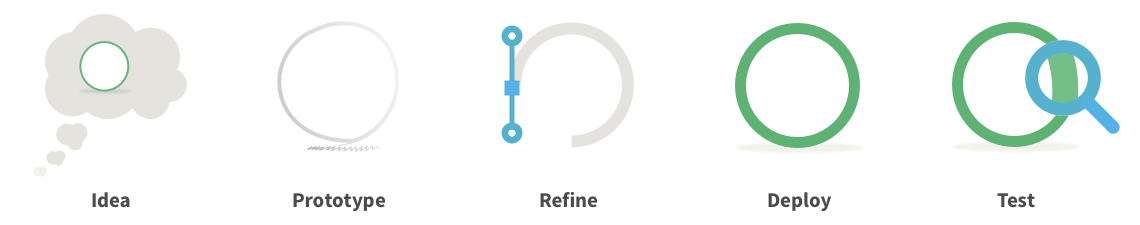
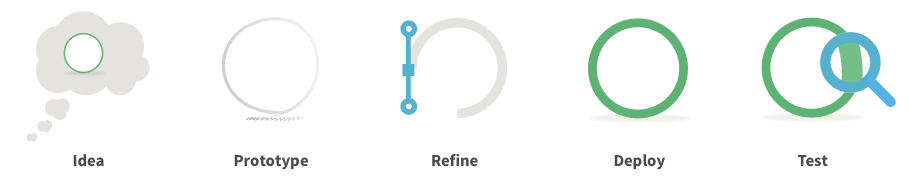
make sure the process diagram isn't too close to the edge

diff --git a/assets/css/design.css b/assets/css/design.css
@@ -1,2 +1,2 @@
-.image-replacement{text-indent:-1000%;white-space:nowrap;overflow:hidden}.container{max-width:63.333333333em;padding:0 1em;margin:0 auto;position:relative}.unstyled-list,.unstyled{margin-left:0;padding-left:0;list-style:none outside none}.inline-list{margin-left:-0.5em;margin-bottom:0}.inline-list li{display:inline-block;margin-left:0.5em}.text--center{text-align:center}.bg-default{background:lightblue}body{background-color:#f3f1eb}.design-hero{padding:3em 0 6em;background-image:url("../img/design-hero-bg.jpg");background-position:center top;background-repeat:no-repeat;background-size:cover;color:#fff}@media (min-width: 40em){.design-hero{padding:6em 0 9em;background-position:center top}}@media (min-width: 80em){.design-hero{background-position:center -100px}}.design-hero h1{font-weight:600;font-size:3.5em}@media (min-width: 40em){.design-hero h1{font-size:5.5em}}.design-hero .subhead{margin-bottom:0;font-size:1.333333333em}.page{background-color:#fff;padding:3em 0;position:relative;top:-4em}@media (min-width: 40em){.page{padding:6em 0;top:-8em}}.page>p{max-width:38em;margin-left:auto;margin-right:auto}.intro-section{padding:0 0 4em 0;border-bottom:1px solid #e4e3dd}.intro-section>p{font-size:1.166666667em;padding:0 1em 0 1em}@media (min-width: 40em){.intro-section>p{padding:0 5em 0 4em}}@media (min-width: 60em){.intro-section>p{padding-right:15em;padding-left:8em}}.intro-section h1{font-size:2em;font-weight:700;max-width:14em;padding-left:0.5em;padding-right:0.5em;-webkit-text-fill-color:transparent;background:-webkit-linear-gradient(left, #61b252, #54b1e4);background:-o-linear-gradient(transparent, transparent);-webkit-background-clip:text}@media (min-width: 40em){.intro-section h1{padding-left:1.3em;font-size:3.5em;padding-right:0}}@media (min-width: 60em){.intro-section h1{padding-left:2.6em}}.body-section{padding:4em 0 4em 0}.body-section>p{font-size:1.166666667em;padding:0 1em 0 1em}@media (min-width: 40em){.body-section>p{padding:0 5em 0 4em}}@media (min-width: 60em){.body-section>p{padding-right:15em;padding-left:8em}}.big-quote{background-color:#54b1e4;background:linear-gradient(to right, #61b252, #54b1e4);padding:1em 0;color:#fff}@media (min-width: 40em){.big-quote{padding:3em 0}}.big-quote blockquote{font-weight:700;font-size:2em;line-height:1.4em;padding-left:0.5em;max-width:20em}@media (min-width: 40em){.big-quote blockquote{padding-left:3em}}.big-quote--people{background-image:url("../img/people.jpg");background-position:left top;background-repeat:no-repeat;background-size:cover;padding:2em 0}@media (min-width: 40em){.big-quote--people{padding:5em 0;background-position:center top}}.pullquote{max-width:300px;font-size:1.75em;line-height:1.25em;font-weight:700;padding-top:1.5em;position:relative}@media (min-width: 40em){.pullquote{float:left}}.pullquote:before{content:'';position:absolute;width:100%;height:8px;background-color:#61b252;background:linear-gradient(to right, #61b252, #54b1e4);top:0;left:0}@media (min-width: 40em){.pullquote--right{float:right}}.our-process{padding:4em 0 4em 0;border-bottom:1px solid #e4e3dd}.our-process h2{text-align:center}.meet-the-designers{position:relative;margin-right:1.5em;margin-left:1.5em}@media (min-width: 40em){.meet-the-designers{width:40%;float:right;margin-right:2em;margin-left:2em}}.meet-the-designers h2{font-size:0.722222222em;text-transform:uppercase;color:#787774}.designer{margin-bottom:2em;width:42%;margin-right:8%;float:left}.designer__name{font-size:0.777777778em;font-weight:normal}.two-photos{width:100%;clear:both}.two-photos:before,.two-photos:after{content:" ";display:table}.two-photos:after{clear:both}.two-photos{*zoom:1}.two-photos__photo{width:50%;float:left;height:50%}
+.image-replacement{text-indent:-1000%;white-space:nowrap;overflow:hidden}.container{max-width:63.333333333em;padding:0 1em;margin:0 auto;position:relative}.unstyled-list,.unstyled{margin-left:0;padding-left:0;list-style:none outside none}.inline-list{margin-left:-0.5em;margin-bottom:0}.inline-list li{display:inline-block;margin-left:0.5em}.text--center{text-align:center}.bg-default{background:lightblue}body{background-color:#f3f1eb}.design-hero{padding:3em 0 6em;background-image:url("../img/design-hero-bg.jpg");background-position:center top;background-repeat:no-repeat;background-size:cover;color:#fff}@media (min-width: 40em){.design-hero{padding:6em 0 9em;background-position:center top}}@media (min-width: 80em){.design-hero{background-position:center -100px}}.design-hero h1{font-weight:600;font-size:3.5em}@media (min-width: 40em){.design-hero h1{font-size:5.5em}}.design-hero .subhead{margin-bottom:0;font-size:1.333333333em}.page{background-color:#fff;padding:3em 0;position:relative;top:-4em}@media (min-width: 40em){.page{padding:6em 0;top:-8em}}.page>p{max-width:38em;margin-left:auto;margin-right:auto}.intro-section{padding:0 0 4em 0;border-bottom:1px solid #e4e3dd}.intro-section>p{font-size:1.166666667em;padding:0 1em 0 1em}@media (min-width: 40em){.intro-section>p{padding:0 5em 0 4em}}@media (min-width: 60em){.intro-section>p{padding-right:15em;padding-left:8em}}.intro-section h1{font-size:2em;font-weight:700;max-width:14em;padding-left:0.5em;padding-right:0.5em;-webkit-text-fill-color:transparent;background:-webkit-linear-gradient(left, #61b252, #54b1e4);background:-o-linear-gradient(transparent, transparent);-webkit-background-clip:text}@media (min-width: 40em){.intro-section h1{padding-left:1.3em;font-size:3.5em;padding-right:0}}@media (min-width: 60em){.intro-section h1{padding-left:2.6em}}.body-section{padding:4em 0 4em 0}.body-section>p{font-size:1.166666667em;padding:0 1em 0 1em}@media (min-width: 40em){.body-section>p{padding:0 5em 0 4em}}@media (min-width: 60em){.body-section>p{padding-right:15em;padding-left:8em}}.big-quote{background-color:#54b1e4;background:linear-gradient(to right, #61b252, #54b1e4);padding:1em 0;color:#fff}@media (min-width: 40em){.big-quote{padding:3em 0}}.big-quote blockquote{font-weight:700;font-size:2em;line-height:1.4em;padding-left:0.5em;max-width:20em}@media (min-width: 40em){.big-quote blockquote{padding-left:3em}}.big-quote--people{background-image:url("../img/people.jpg");background-position:left top;background-repeat:no-repeat;background-size:cover;padding:2em 0}@media (min-width: 40em){.big-quote--people{padding:5em 0;background-position:center top}}.pullquote{max-width:300px;font-size:1.75em;line-height:1.25em;font-weight:700;padding-top:1.5em;position:relative}@media (min-width: 40em){.pullquote{float:left}}.pullquote:before{content:'';position:absolute;width:100%;height:8px;background-color:#61b252;background:linear-gradient(to right, #61b252, #54b1e4);top:0;left:0}@media (min-width: 40em){.pullquote--right{float:right}}.our-process{padding:4em 0 4em 0;border-bottom:1px solid #e4e3dd;text-align:center}.meet-the-designers{position:relative;margin-right:1.5em;margin-left:1.5em}@media (min-width: 40em){.meet-the-designers{width:40%;float:right;margin-right:2em;margin-left:2em}}.meet-the-designers h2{font-size:0.722222222em;text-transform:uppercase;color:#787774}.designer{margin-bottom:2em;width:42%;margin-right:8%;float:left}.designer__name{font-size:0.777777778em;font-weight:normal}.two-photos{width:100%;clear:both}.two-photos:before,.two-photos:after{content:" ";display:table}.two-photos:after{clear:both}.two-photos{*zoom:1}.two-photos__photo{width:50%;float:left;height:50%}
 /*# sourceMappingURL=design.css.map */

diff --git a/assets/sass/design.scss b/assets/sass/design.scss
@@ -160,9 +160,7 @@ body {
 .our-process {
   padding: 4em 0 4em 0;
   border-bottom: 1px solid $colour_borders;
-  h2 {
-    text-align: center;
-  }
+  text-align: center;
 }
 
 .meet-the-designers {
